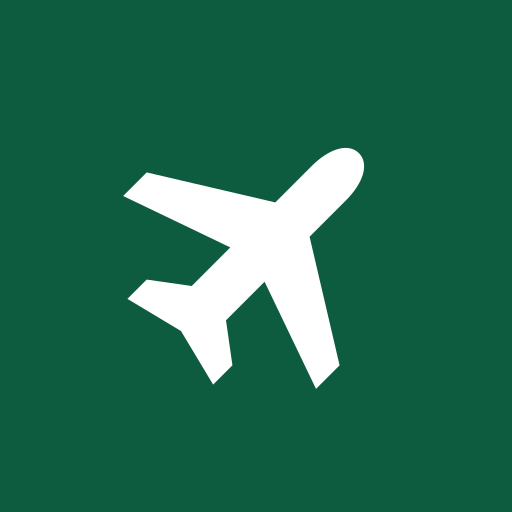
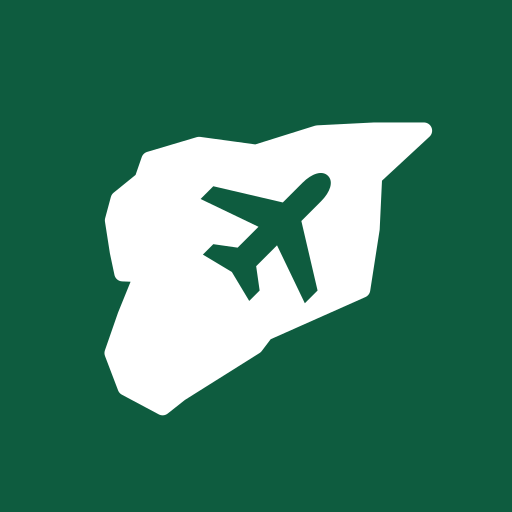
Put Syria into the mark
The plane alone said "flights"; nothing in it said where to. The mark is
now the country itself, in white on the passport-green tile, with the
plane cut out of it heading north-east. The outline is the same one the
in-app map draws, so the icon and the planner agree on the shape.

The generator now lifts the whole mark group out of icon.svg rather than
just the plane path, and the share card shows the mark at size beside the
tagline instead of drawing the outline a second time.

Claude-Session: https://claude.ai/code/session_01X8VSWbUCzZVY9n4a14GRYw

Changed region(s): [[0.1875, 0.2188, 0.8438, 0.8125]]

diff --git a/README.md b/README.md
@@ -69,7 +69,7 @@ paste the URL and anon key into `.env.local`.
 Direction "Passport": cool grey ground, passport-green accent, outlined *stamp* chips for status,
 Readex Pro. Tokens are in `globals.css`; every component reads them, so restyling is one file.
 
-The brand mark is `src/app/icon.svg`: a passport-green tile with a white plane. Everything raster
+The brand mark is `src/app/icon.svg`: Syria in white on a passport-green tile, with a plane cut out of it. Everything raster
 (`favicon.ico`, `apple-icon.png`, the manifest icons in `public/`, `opengraph-image.png`) is generated from it
 by `npm run icons` and committed. The share card sets its text in Readex Pro, so install the font locally
 before regenerating it.
